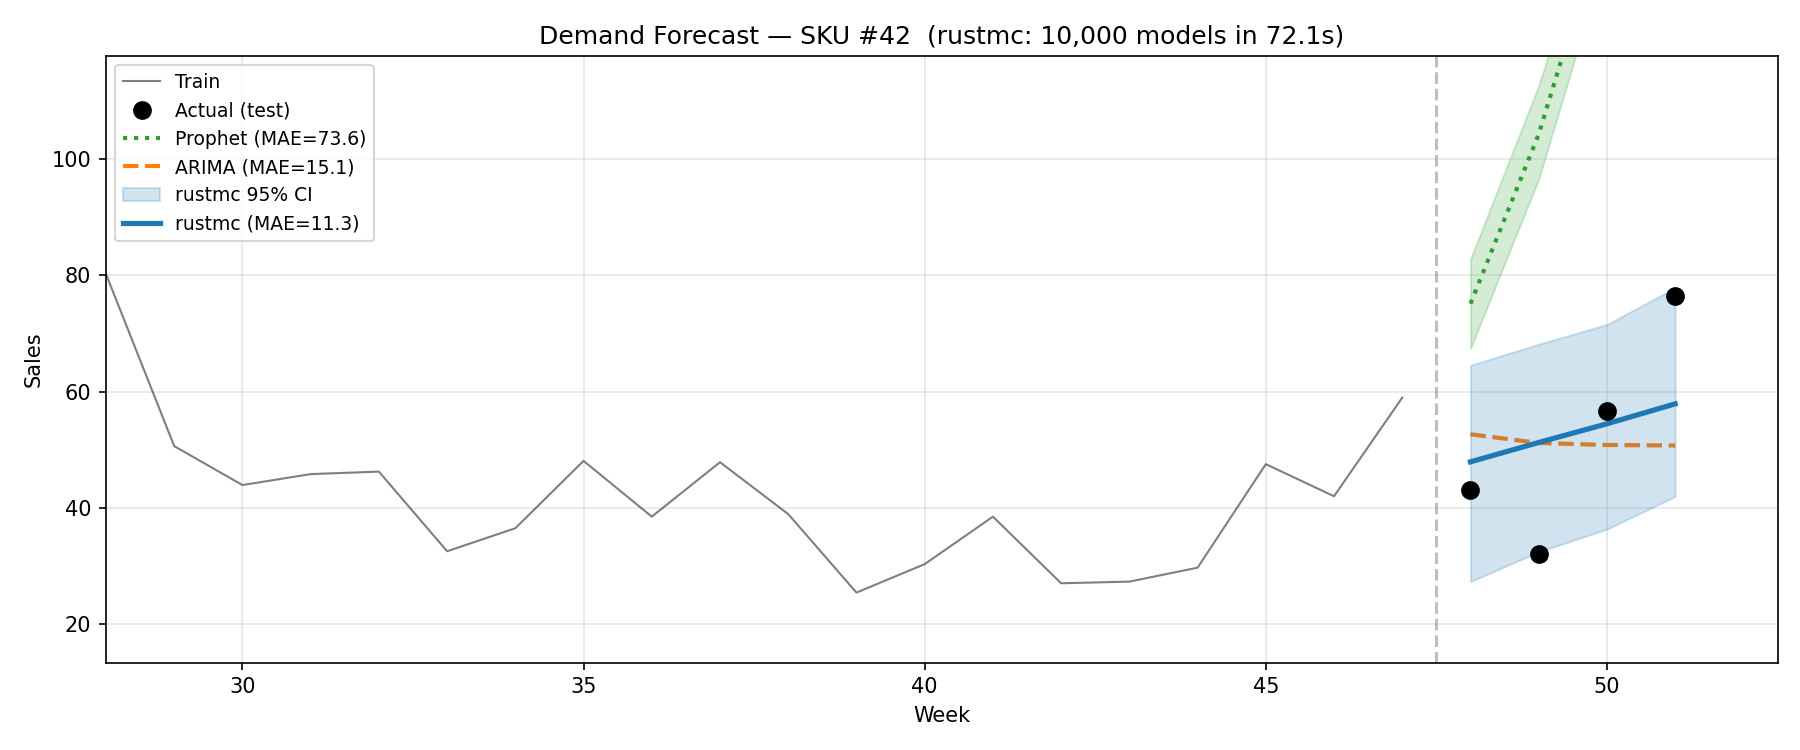
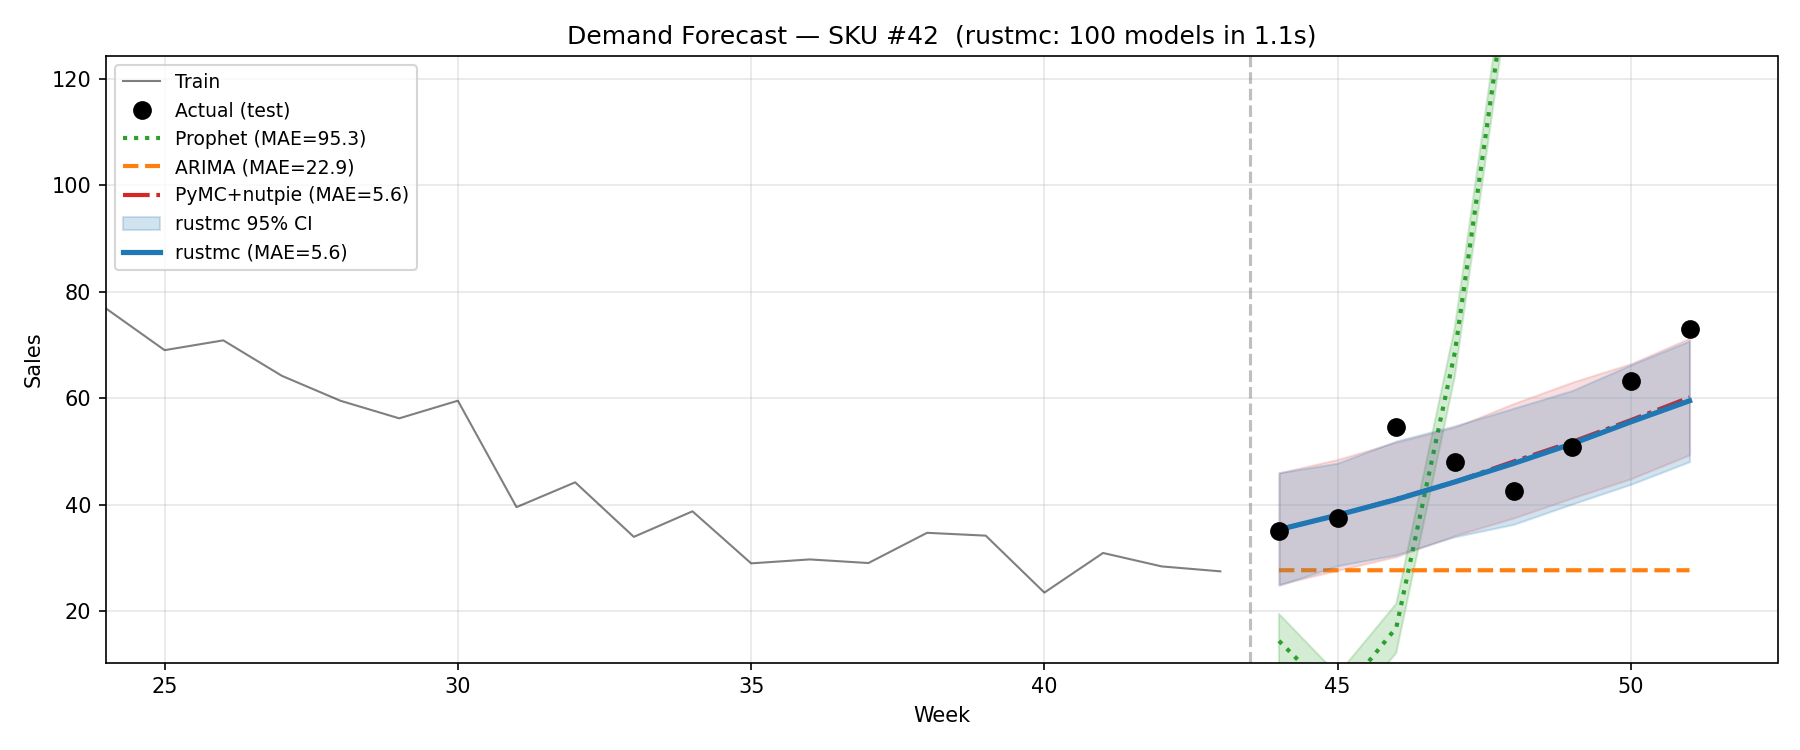
added nutpie example

diff --git a/examples/batch_10k_skus.py b/examples/batch_10k_skus.py
@@ -12,16 +12,27 @@ credible interval) against Prophet and ARIMA.
 This demonstrates a capability that doesn't exist in Python-first Bayesian
 frameworks: thousands of independent posterior inferences in parallel,
 using a single Rayon thread pool, with zero Python in the inner loop.
-"""##
+
+Rust data structures (for comparison with JAX):
+    The rustmc core uses plain Rust data structures, not a separate array
+    library in the hot path. The graph is Vec<Node> and Vec<Op>; parameters
+    and gradients are Vec<f64>; the autodiff evaluator uses contiguous
+    vec_buf/adj_vec_buf (flat Vec<f64>) for all vector intermediates. That
+    gives cache-friendly layout, no heap allocations in the sampling loop,
+    and no Python/FFI in the inner loop. JAX traces Python and compiles
+    XLA; rustmc compiles once to native code and runs fixed graph traversal
+    over contiguous buffers, which tends to be faster for many small,
+    independent models and avoids JAX dispatch/compilation overhead per model.
+"""
 
 import time
 import numpy as np
 
 # ─── Generate 10,000 SKU time series ────────────────────────────────
 
-N_SKUS = 10_000
-TRAIN_WEEKS = 48
-FORECAST_WEEKS = 4
+N_SKUS = 100
+TRAIN_WEEKS = 44
+FORECAST_WEEKS = 8
 TOTAL_WEEKS = TRAIN_WEEKS + FORECAST_WEEKS
 
 np.random.seed(42)
@@ -83,13 +94,49 @@ print(f"Models built in {build_time:.2f}s")
 
 print(f"\nSampling {N_SKUS:,} models (NUTS, 300 warmup + 500 draws each)...")
 start = time.time()
-results = rmc.batch_sample(models, draws=500, warmup=300, seed=42)
+results = rmc.batch_sample(models, draws=1000, warmup=500, seed=42)
 rustmc_time = time.time() - start
 
 total_divs = sum(r.divergences for r in results)
 avg_accept = np.mean([r.accept_rate for r in results])
 print(f"Done in {rustmc_time:.2f}s  ({N_SKUS / rustmc_time:.0f} models/s)")
 print(f"Avg accept rate: {avg_accept:.2f}  |  Total divergences: {total_divs}")
+
+# ─── PyMC + nutpie (same workload, for comparison) ───────────────────
+
+nutpie_time = None
+nutpie_results = []  # list of (idata or None) per SKU; we keep TARGET for forecast
+try:
+    import pymc as pm
+    import nutpie
+
+    print(f"\nSampling {N_SKUS:,} models with PyMC + nutpie (NUTS, 500 tune + 1000 draws, 4 chains)...")
+    t0 = time.time()
+    for i in range(N_SKUS):
+        with pm.Model() as model:
+            intercept = pm.Normal("intercept", 0.0, 200.0)
+            trend = pm.Normal("trend", 0.0, 20.0)
+            seas = pm.Normal("seasonality", 0.0, 50.0)
+            mu = intercept + trend * t_train + seas * sin_train
+            pm.Normal("obs", mu=mu, sigma=true_noise[i], observed=all_series[i, :TRAIN_WEEKS])
+            compiled = nutpie.compile_pymc_model(model)
+            idata = nutpie.sample(
+                compiled,
+                draws=1000,
+                tune=500,
+                chains=4,
+                seed=42,
+                cores=4,
+            )
+        nutpie_results.append(idata)
+    nutpie_time = time.time() - t0
+    print(f"PyMC+nutpie done in {nutpie_time:.2f}s  ({N_SKUS / nutpie_time:.0f} models/s)")
+except ImportError as e:
+    print(f"\nPyMC or nutpie not installed — skipping: {e}")
+except Exception as e:
+    print(f"\nPyMC+nutpie failed: {e}")
+    import traceback
+    traceback.print_exc()
 
 # ─── Pick a random SKU and forecast ─────────────────────────────────
 
@@ -118,6 +165,32 @@ rustmc_mean = forecasts.mean(axis=0)
 rustmc_lo = np.percentile(forecasts, 2.5, axis=0)
 rustmc_hi = np.percentile(forecasts, 97.5, axis=0)
 rustmc_mae = np.mean(np.abs(rustmc_mean - actual_test))
+
+# PyMC+nutpie forecast for TARGET (if we ran nutpie)
+nutpie_mean = None
+nutpie_lo = None
+nutpie_hi = None
+nutpie_mae = None
+if nutpie_time is not None and nutpie_results and len(nutpie_results) > TARGET:
+    idata = nutpie_results[TARGET]
+    if idata is not None:
+        post = idata.posterior
+        i0 = post["intercept"].values  # (chain, draw)
+        tr0 = post["trend"].values
+        se0 = post["seasonality"].values
+        # flatten chains and draws
+        i_flat = i0.reshape(-1)
+        tr_flat = tr0.reshape(-1)
+        se_flat = se0.reshape(-1)
+        n_d = len(i_flat)
+        fcasts = np.zeros((n_d, FORECAST_WEEKS))
+        for d in range(n_d):
+            mu_d = i_flat[d] + tr_flat[d] * t_future_norm + se_flat[d] * sin_future
+            fcasts[d] = mu_d + np.random.randn(FORECAST_WEEKS) * true_noise[TARGET]
+        nutpie_mean = fcasts.mean(axis=0)
+        nutpie_lo = np.percentile(fcasts, 2.5, axis=0)
+        nutpie_hi = np.percentile(fcasts, 97.5, axis=0)
+        nutpie_mae = np.mean(np.abs(nutpie_mean - actual_test))
 
 # ─── ARIMA comparison ───────────────────────────────────────────────
 
@@ -176,25 +249,29 @@ except Exception as e:
 print(f"\n{'=' * 60}")
 print(f"FORECAST COMPARISON — SKU #{TARGET}")
 print(f"{'=' * 60}")
-print(f"\n{'Week':<8} {'Actual':>8} {'rustmc':>10} {'ARIMA':>10} {'Prophet':>10}")
-print("─" * 50)
+print(f"\n{'Week':<8} {'Actual':>8} {'rustmc':>10} {'nutpie':>10} {'ARIMA':>10} {'Prophet':>10}")
+print("─" * 58)
 for i in range(FORECAST_WEEKS):
     week = TRAIN_WEEKS + i
     a = f"{actual_test[i]:.1f}"
     r = f"{rustmc_mean[i]:.1f}"
+    nu = f"{nutpie_mean[i]:.1f}" if nutpie_mean is not None else "N/A"
     ar = f"{arima_forecast[i]:.1f}" if arima_forecast is not None else "N/A"
     pr = f"{prophet_forecast[i]:.1f}" if prophet_forecast is not None else "N/A"
-    print(f"  {week:<6} {a:>8} {r:>10} {ar:>10} {pr:>10}")
+    print(f"  {week:<6} {a:>8} {r:>10} {nu:>10} {ar:>10} {pr:>10}")
 
-print(f"\n{'Method':<25} {'MAE':>8} {'Time':>12} {'Note':>20}")
-print("─" * 70)
-print(f"{'rustmc (batch NUTS)':<25} {rustmc_mae:>8.2f} {rustmc_time:>11.2f}s {'10K models total':>20}")
+print(f"\n{'Method':<28} {'MAE':>8} {'Time':>12} {'Note':>22}")
+print("─" * 72)
+print(f"{'rustmc (batch NUTS)':<28} {rustmc_mae:>8.2f} {rustmc_time:>11.2f}s {f'{N_SKUS} models':>22}")
+if nutpie_time is not None:
+    nm = nutpie_mae if nutpie_mae is not None else 0.0
+    print(f"{'PyMC + nutpie (batch NUTS)':<28} {nm:>8.2f} {nutpie_time:>11.2f}s {f'{N_SKUS} models':>22}")
 if arima_mae is not None:
     est_arima_total = arima_time * N_SKUS
-    print(f"{'ARIMA(1,1,1)':<25} {arima_mae:>8.2f} {arima_time:>11.3f}s {f'×{N_SKUS:,}={est_arima_total:.0f}s':>20}")
+    print(f"{'ARIMA(1,1,1)':<28} {arima_mae:>8.2f} {arima_time:>11.3f}s {f'×{N_SKUS:,}={est_arima_total:.0f}s':>22}")
 if prophet_mae is not None:
     est_prophet_total = prophet_time * N_SKUS
-    print(f"{'Prophet':<25} {prophet_mae:>8.2f} {prophet_time:>11.3f}s {f'×{N_SKUS:,}={est_prophet_total:.0f}s':>20}")
+    print(f"{'Prophet':<28} {prophet_mae:>8.2f} {prophet_time:>11.3f}s {f'×{N_SKUS:,}={est_prophet_total:.0f}s':>22}")
 
 # ─── Plot ────────────────────────────────────────────────────────────
 
@@ -217,6 +294,9 @@ try:
 
     if arima_forecast is not None:
         ax.plot(weeks_test, arima_forecast, "C1--", linewidth=2, label=f"ARIMA (MAE={arima_mae:.1f})")
+    if nutpie_mean is not None and nutpie_mae is not None:
+        ax.plot(weeks_test, nutpie_mean, "C3-.", linewidth=2, label=f"PyMC+nutpie (MAE={nutpie_mae:.1f})")
+        ax.fill_between(weeks_test, nutpie_lo, nutpie_hi, color="C3", alpha=0.15)
 
     # Plot rustmc last so CI band is on top and visible
     ax.fill_between(weeks_test, rustmc_lo, rustmc_hi, color="C0", alpha=0.2, label="rustmc 95% CI", zorder=3)

diff --git a/README.md b/README.md
@@ -176,6 +176,17 @@ Design principles:
 - Deterministic RNG per chain (ChaCha8 seeded from base_seed + chain_index).
 - Parameter transforms and Jacobian corrections are handled in the graph, not the sampler.
 
+### Data structures (Rust vs JAX)
+
+The hot path uses plain Rust types only: the graph is `Vec<Node>` and `Vec<Op>`, parameters and gradients are `Vec<f64>`, and the autodiff evaluator uses contiguous `vec_buf` / `adj_vec_buf` (flat `Vec<f64>`) for all vector intermediates. There is no ndarray or external array library in the inner loop; `ndarray` appears only in the Python bindings when building the 2D sample array to return to NumPy. Benefits of this layout:
+
+- **Cache-friendly**: One pass over the graph touches sequential memory; vector slots are in a single allocation.
+- **Zero allocation in the loop**: Buffers are allocated once per chain and reused for every gradient evaluation.
+- **No Python or FFI in the inner loop**: The entire NUTS/HMC step runs in Rust; Python is only used to build the model and consume results.
+- **Fixed graph traversal**: The same DAG is walked every time; there is no tracing or recompilation per model or per step.
+
+JAX, by contrast, traces Python and compiles to XLA. That gives flexibility and GPU support but adds per-model compilation and dispatch overhead. For many small, independent models (e.g. 10,000 SKUs), rustmc's "compile once, run fixed graph over contiguous buffers" approach often wins on CPU because there is no per-model JAX trace/compile and no Python in the inner loop. Nutpie (JAX-based) is faster than default PyMC for a single model; the batch example compares rustmc's batch NUTS against PyMC+nutpie run in a loop over the same number of models.
+
 ## Roadmap
 
 Near term:
